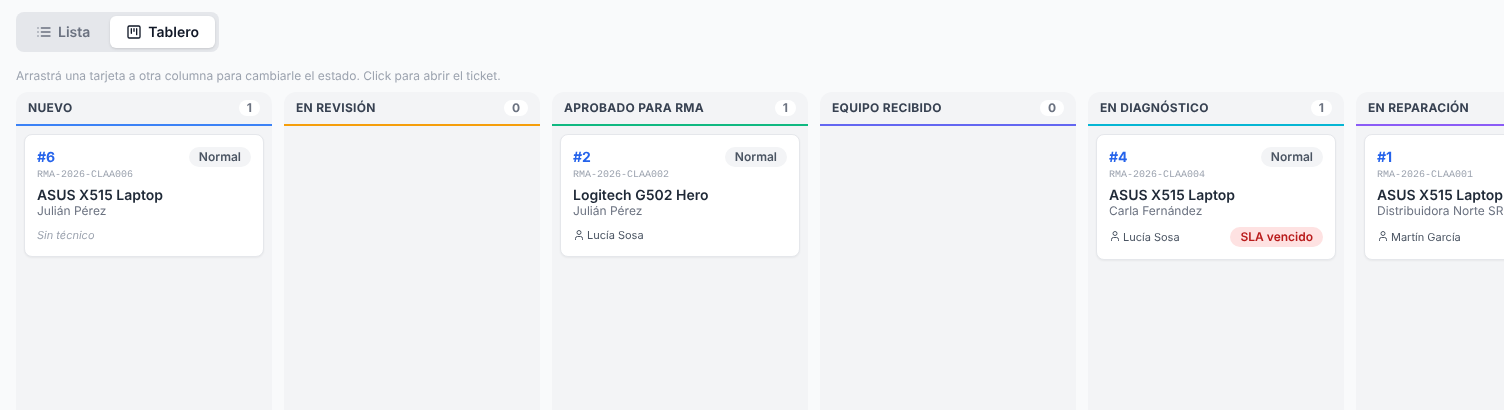
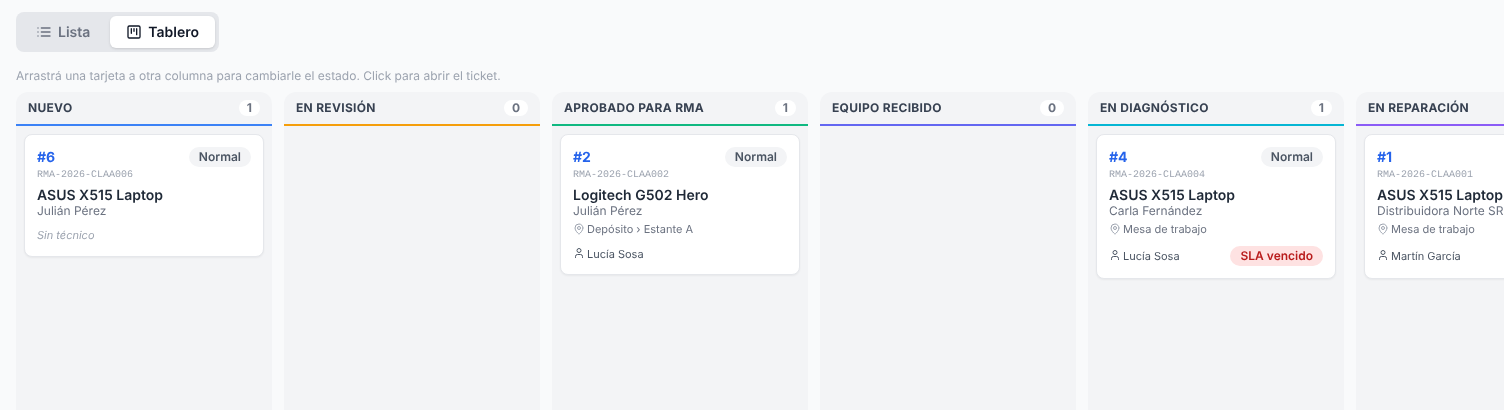
README: capturas nuevas, ordenadas por el recorrido de un equipo
- 23 capturas con GEZARMA: recepción (mostrador, comprobante, etiqueta), taller (lista,
  tablero, detalle, ubicaciones), fuera del taller, pedidos, horas, presupuesto, el cliente
  (Mis equipos, detalle, seguimiento), celular, modo oscuro y configuración (asistente,
  ajustes, administración, Ir a…, Personalizar)
- El panel queda una sola vez, arriba de todo
- Portal del cliente: los pendientes mostraban el nombre del ícono ("billete", "estrella")
  en vez del ícono
- Celular: la × de las etiquetas ya no agranda la píldora

Changed region(s): [[0.7188, 0.5561, 1.0, 0.6439], [0.375, 0.5561, 0.4688, 0.5854], [0.375, 0.6146, 0.4375, 0.6439]]

diff --git a/frontend/js/portal.js b/frontend/js/portal.js
@@ -39,7 +39,7 @@ const Portal = (() => {
             <h3 class="font-bold text-amber-800 text-sm mb-2">Tenés ${d.pendientes.length === 1 ? 'algo pendiente' : `${d.pendientes.length} cosas pendientes`}</h3>
             <ul class="space-y-1">${d.pendientes.map(p => `
                 <li><button type="button" data-ticket="${p.ticket_id}" class="text-sm text-amber-900 hover:underline text-left">
-                    ${ICONO[p.tipo] || '•'} <b>${esc(p.texto)}</b> · ${esc(p.producto)} <span class="font-mono text-xs">${esc(p.numero_rma)}</span>${p.vence ? ` · hasta el ${fecha(p.vence)}` : ''}
+                    ${icono(ICONO[p.tipo] || 'info', 'w-4 h-4 mr-1')}<b>${esc(p.texto)}</b> · ${esc(p.producto)} <span class="font-mono text-xs">${esc(p.numero_rma)}</span>${p.vence ? ` · hasta el ${fecha(p.vence)}` : ''}
                 </button></li>`).join('')}</ul>
         </div>` : ''}
         <div class="flex items-end justify-between mb-3">

diff --git a/frontend/index.html b/frontend/index.html
@@ -107,6 +107,8 @@
             label:has(> input[type=checkbox]), label:has(> input[type=radio]) { min-height: 44px; }
             button:is(.w-6, .w-7, .w-8, .w-9, .panel-btn), button:has(> svg:only-child), button:has(> i:only-child),
             button[id^="close"], button[aria-label="Cerrar"], button[data-cerrar], #toggle-password, #fav-btn, #user-menu-btn { min-width: 44px; }
+            /* La × de una etiqueta va dentro de la píldora: no la agranda (la píldora entera es el área de toque) */
+            .tag-remove-btn, .ef-tag-remove { min-height: 0 !important; min-width: 1.5rem !important; padding: 0 .25rem !important; }
             input[type=checkbox], input[type=radio] { width: 1.25rem; height: 1.25rem; }
             .tabla-tarjetas input[type=checkbox] { width: 1.5rem; height: 1.5rem; min-width: 1.5rem; }
             /* Panel: cargar un equipo se hace con el "+" de la barra de arriba (siempre a mano) */

diff --git a/README.md b/README.md
@@ -4,7 +4,7 @@ Sistema de gestión de **RMA** (devoluciones, garantías y reparaciones) para un
 
 Backend en **FastAPI** + SQLAlchemy (SQLite por defecto) y frontend en HTML/JS sin build, servido por la misma app.
 
-![Panel de control](docs/capturas/02-dashboard.png)
+![Panel de control](docs/capturas/01-panel.png)
 
 ## Funcionalidades
 
@@ -44,43 +44,75 @@ Backend en **FastAPI** + SQLAlchemy (SQLite por defecto) y frontend en HTML/JS s
 
 ## Capturas
 
-![Panel de control](docs/capturas/02-dashboard.png)
+El recorrido de un equipo, desde que llega al mostrador hasta que el cliente lo retira.
 
-Panel de control: ingreso en mostrador y ticket nuevo, accesos con su dato (favoritos, horas de hoy, equipos atrasados en el fabricante), resumen y lo pendiente del día. Cada bloque se ordena, se achica o se oculta desde "Personalizar".
+### Recepción
 
-![Lista de tickets](docs/capturas/12-lista.png)
+| Ingreso en mostrador | Comprobante de ticketera (80 mm) |
+|---|---|
+| ![Ingreso en mostrador](docs/capturas/02-mostrador.png) | ![Comprobante de ingreso](docs/capturas/03-comprobante.png) |
+| Cliente, equipo, accesorios, cómo llega y firma, en una sola pantalla. | Con el QR al seguimiento y el código de barras del N° de RMA. |
+
+![Etiqueta 62 × 29 mm](docs/capturas/04-etiqueta.png)
+
+Etiqueta para pegar en el equipo: el QR abre el ticket en el sistema y el código de barras se lee con cualquier lector.
+
+### En el taller
+
+![Lista de tickets](docs/capturas/05-lista.png)
 
 Lista de tickets: estados con su cantidad (filtran con un clic), días en el taller, alertas de SLA y orden por cualquier columna.
 
-| Detalle del ticket (taller) | Detalle del ticket (cliente) |
-|---|---|
-| ![Detalle visto por el taller](docs/capturas/03-detalle-taller.png) | ![Detalle visto por el cliente](docs/capturas/04-detalle-cliente.png) |
-| Estado, técnico, diagnóstico, repuestos, nota interna y presupuesto con costo y ganancia. | El mismo ticket para el cliente: sin nota interna y el presupuesto solo con el precio. |
+![Tablero por estado](docs/capturas/06-tablero.png)
 
-| Tablero Kanban | Seguimiento público (celular) |
-|---|---|
-| ![Tablero por estado](docs/capturas/06-tablero.png) | ![Seguimiento de una reparación](docs/capturas/07-seguimiento.png) |
-| Arrastrar una tarjeta a otra columna le cambia el estado. | Con el N° de RMA y el N° de serie, o escaneando el QR de la orden de ingreso. |
+Tablero: arrastrar una tarjeta a otra columna le cambia el estado.
 
-| Presupuesto en PDF | Etiqueta 62 × 29 mm |
+| Detalle del ticket | Ubicaciones |
 |---|---|
-| ![Presupuesto en PDF](docs/capturas/08-presupuesto.png) | ![Etiqueta para el equipo](docs/capturas/09-etiqueta.png) |
-| Precios para el cliente (nunca costos) y QR al seguimiento. | QR que abre el ticket en el sistema y código de barras del N° de RMA. |
+| ![Detalle visto por el taller](docs/capturas/07-detalle-taller.png) | ![Ubicaciones del taller](docs/capturas/08-ubicaciones.png) |
+| Estado, técnico, ubicación, envío al fabricante, tiempo de trabajo, repuestos, nota interna y presupuesto con costo y ganancia. | Depósito › estante, con su etiqueta para escanear; equipos y repuestos sin ubicación o quietos. |
 
-| Administración | Ajustes |
-|---|---|
-| ![Panel de administración](docs/capturas/05-admin.png) | ![Ajustes del sistema](docs/capturas/10-ajustes.png) |
-| Menú agrupado por tema; editar y eliminar desde los íconos de cada fila. | Agrupados en secciones desplegables con su resumen y un buscador: taller, mails, documentos, impresoras, SLA y más. |
+### Afuera, compras y horas
 
-| Horas | Login |
+| Fuera del taller | Pedidos a proveedor |
 |---|---|
-| ![Horas de un técnico en la semana](docs/capturas/11-horas.png) | ![Login](docs/capturas/01-login.png) |
-| Las horas de cada técnico día por día: arrastrar un tramo lo mueve de día, con clic se corrige. | Con el nombre y el logo del taller. |
+| ![Equipos en el servicio oficial](docs/capturas/09-fuera-del-taller.png) | ![Pedidos a proveedor](docs/capturas/10-pedidos.png) |
+| Equipos en la garantía del fabricante, con días afuera y atrasados. | Armar, mandar y recibir: lo bajo el mínimo se agrupa por proveedor. |
 
-| Configuración inicial | Fuera del taller |
+| Horas | Presupuesto en PDF |
 |---|---|
-| ![Asistente de configuración inicial](docs/capturas/13-configuracion.png) | ![Equipos en el servicio oficial](docs/capturas/14-fuera-del-taller.png) |
-| El primer ingreso: el tipo de taller suma estados, checklist, categorías, plantillas y plazos. | Equipos en la garantía del fabricante, con días afuera y atrasados. |
+| ![Horas de un técnico en la semana](docs/capturas/11-horas.png) | ![Presupuesto en PDF](docs/capturas/12-presupuesto.png) |
+| Las horas de cada técnico día por día: arrastrar un tramo lo mueve de día, con clic se corrige. | Precios para el cliente (nunca costos) y QR al seguimiento. |
+
+### El cliente
+
+| Mis equipos | Detalle del ticket (cliente) | Seguimiento público |
+|---|---|---|
+| ![Portal del cliente](docs/capturas/13-portal-cliente.png) | ![Detalle visto por el cliente](docs/capturas/14-detalle-cliente.png) | ![Seguimiento de una reparación](docs/capturas/15-seguimiento.png) |
+| Sus equipos, lo que tiene pendiente y los documentos para bajar. | Sin nota interna y el presupuesto solo con el precio. | Con el N° de RMA y el N° de serie, o escaneando el QR. |
+
+### En el celular y en modo oscuro
+
+| Panel | Ticket | Modo oscuro |
+|---|---|---|
+| ![Panel en el celular](docs/capturas/16-celular-panel.png) | ![Ticket en el celular](docs/capturas/17-celular-ticket.png) | ![Ticket en modo oscuro](docs/capturas/18-modo-oscuro.png) |
+| El "+" de la barra carga un equipo desde cualquier pantalla. | Todo el ticket a una columna. | Cada color con su versión oscura y buen contraste. |
+
+### Configuración
+
+| Configuración inicial | Ajustes |
+|---|---|
+| ![Asistente de configuración inicial](docs/capturas/19-configuracion.png) | ![Ajustes del sistema](docs/capturas/20-ajustes.png) |
+| El primer ingreso: el tipo de taller suma estados, checklist, categorías, plantillas y plazos. | Secciones desplegables con su resumen y un buscador. |
+
+| Administración | Ir a… (Ctrl + K) |
+|---|---|
+| ![Panel de administración](docs/capturas/21-admin.png) | ![Ir a](docs/capturas/22-ir-a.png) |
+| Menú agrupado por tema, con una letra por sección. | Pantallas, secciones y ajustes puntuales, o un ticket por su N° de RMA. |
+
+![Personalizar el panel](docs/capturas/23-personalizar.png)
+
+Personalizar el panel: cada bloque se arrastra, cambia de ancho o se oculta; se guarda por usuario.
 
 *(Datos de demostración ficticios.)*
 
